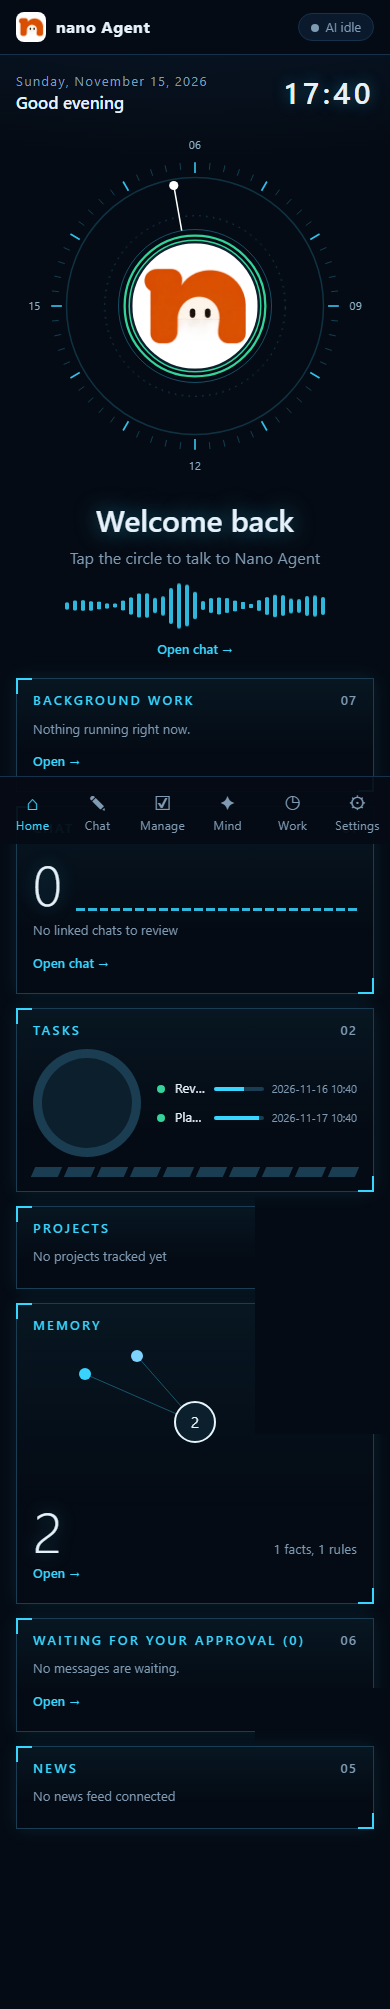
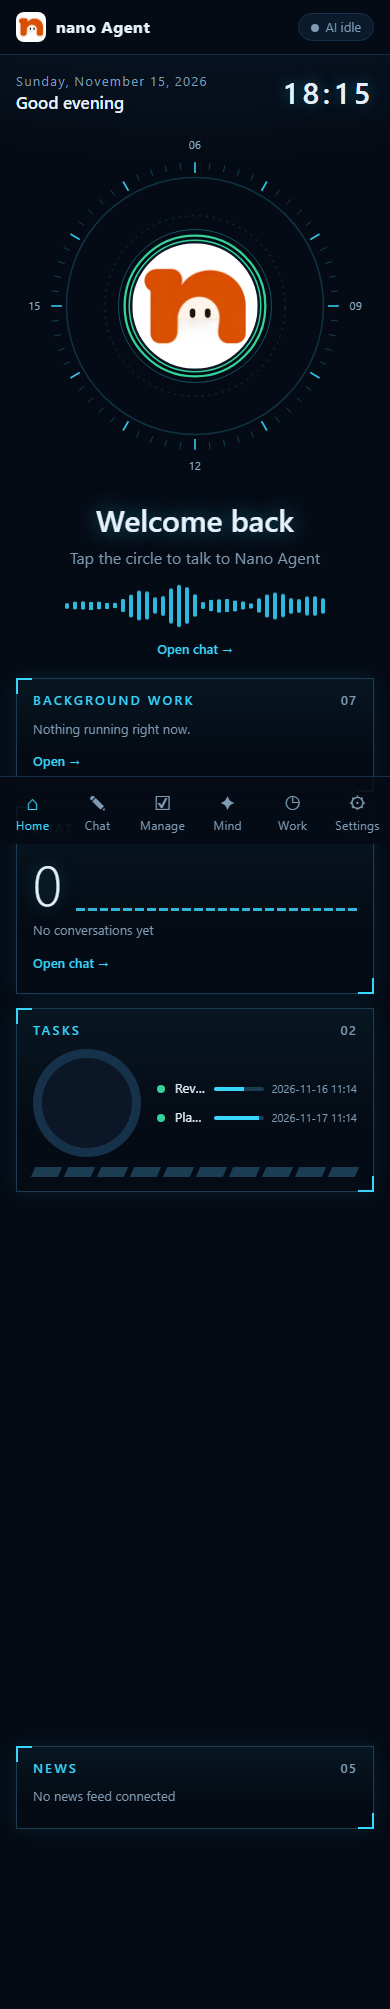
Add full console themes and dedicated chat workspace

diff --git a/src/nanoagent/gateway/static/console.js b/src/nanoagent/gateway/static/console.js
@@ -59,7 +59,10 @@ const HUBS = [["home", "⌂", "tab_home"], ["chat", "✎", "tab_chat"], ["manage
 function drawTabs() { $("#tabs").replaceChildren(...HUBS.map(([k, ic, lb]) => h("button", { class: tab === k ? "on" : "", onclick: () => go(k) }, h("span", { text: ic }), t(lb)))); }
 function go(k) { tab = k; drawTabs(); render(); }
 function render() { ({ home: vHome, chat: vChat, manage: vManage, mind: vMind, work: vWork, settings: vSettings })[tab](); }
-function applyUi(p) { const r = document.documentElement; if (p["ui.accent"]) r.dataset.accent = p["ui.accent"]; if (p["ui.density"]) r.dataset.density = p["ui.density"]; if (p["ui.text_size"]) r.dataset.size = p["ui.text_size"]; }
+function applyUi(p) { const r = document.documentElement; if (p["ui.accent"]) r.dataset.accent = p["ui.accent"]; if (p["ui.theme"]) r.dataset.theme = p["ui.theme"]; if (p["ui.density"]) r.dataset.density = p["ui.density"]; if (p["ui.text_size"]) r.dataset.size = p["ui.text_size"]; }
+function viewHeading(title, detail, number) {
+  return h("div", { class: "view-heading" }, h("div", null, h("small", { text: `NANO AGENT / ${String(number).padStart(2, "0")}` }), h("h1", { text: title }), h("p", { text: detail })));
+}
 async function pollPill() {
   try { const r = await api("/activity?count=1"); const n = r.running || 0; const p = $("#pill"); p.classList.toggle("busy", n > 0);
     $("#pilltxt").textContent = n > 0 ? t("pill_busy", { n }) : t("pill_idle"); } catch (e) { /* login screen */ }
@@ -108,11 +111,11 @@ function nanoDial(tasks = []) {
   const svg = sv("svg", { class: "jv-dial", viewBox: "-34 -34 468 468", "aria-hidden": "true" });
   for (let i = 0; i < 60; i++) {
     const big = i % 5 === 0, [x1, y1] = dialPoint(big ? 174 : 179, i * 6), [x2, y2] = dialPoint(188, i * 6);
-    svg.append(sv("line", { x1, y1, x2, y2, stroke: "#38d4ff", "stroke-opacity": big ? .9 : .35, "stroke-width": big ? 2.2 : 1 }));
+    svg.append(sv("line", { x1, y1, x2, y2, stroke: "var(--accent)", "stroke-opacity": big ? .9 : .35, "stroke-width": big ? 2.2 : 1 }));
   }
-  svg.append(sv("circle", { cx: 200, cy: 200, r: 168, fill: "none", stroke: "#38d4ff", "stroke-opacity": .2, "stroke-width": 2 }),
-    sv("circle", { class: "jv-spin", cx: 200, cy: 200, r: 118, fill: "none", stroke: "#38d4ff", "stroke-opacity": .4, "stroke-dasharray": "2 7" }),
-    sv("circle", { cx: 200, cy: 200, r: 100, fill: "none", stroke: "#38d4ff", "stroke-opacity": .45 }));
+  svg.append(sv("circle", { cx: 200, cy: 200, r: 168, fill: "none", stroke: "var(--accent)", "stroke-opacity": .2, "stroke-width": 2 }),
+    sv("circle", { class: "jv-spin", cx: 200, cy: 200, r: 118, fill: "none", stroke: "var(--accent)", "stroke-opacity": .4, "stroke-dasharray": "2 7" }),
+    sv("circle", { cx: 200, cy: 200, r: 100, fill: "none", stroke: "var(--accent)", "stroke-opacity": .45 }));
   for (const [label, deg] of [["06", 0], ["09", 90], ["12", 180], ["15", 270]]) {
     const [x, y] = dialPoint(210, deg), txt = sv("text", { x, y: y + 5, fill: "#8bb0c4", "font-size": 15, "text-anchor": "middle" });
     txt.textContent = label; svg.append(txt);
@@ -131,8 +134,8 @@ function nanoDial(tasks = []) {
     const [x, y] = dialPoint(150, (dueHour - 6) * 30);
     svg.append(sv("circle", { cx: x, cy: y, r: 9, fill: "#fbbf24" }));
   }
-  svg.append(sv("circle", { cx: 200, cy: 200, r: 92, fill: "none", stroke: "#34d399", "stroke-width": 3 }),
-    sv("circle", { cx: 200, cy: 200, r: 86, fill: "#0c1f2c", stroke: "#34d399", "stroke-width": 2 }));
+  svg.append(sv("circle", { cx: 200, cy: 200, r: 92, fill: "none", stroke: "var(--ok)", "stroke-width": 3 }),
+    sv("circle", { cx: 200, cy: 200, r: 86, fill: "var(--panel)", stroke: "var(--ok)", "stroke-width": 2 }));
   const clip = sv("clipPath", { id: "nano-dial-clip" }, sv("circle", { cx: 200, cy: 200, r: 82 }));
   svg.append(sv("defs", {}, clip), sv("image", { href: "/static/logo-icon.png", x: 118, y: 118, width: 164, height: 164, "clip-path": "url(#nano-dial-clip)", preserveAspectRatio: "xMidYMid meet" }));
   return svg;
@@ -147,8 +150,8 @@ function jvMemoryGraph(count) {
   const svg = sv("svg", { class: "jv-memory-graph", viewBox: "0 0 300 150", "aria-hidden": "true" });
   const points = [[40, 30], [92, 12], [150, 28], [232, 40], [262, 98], [200, 128], [110, 132], [34, 96], [200, 74]];
   points.slice(0, Math.min(count, points.length)).forEach(([x, y], i) => {
-    svg.append(sv("line", { x1: 150, y1: 78, x2: x, y2: y, stroke: "#38d4ff", "stroke-opacity": .35 }),
-      sv("circle", { cx: x, cy: y, r: 6, fill: ["#38d4ff", "#7dd3fc", "#fbbf24", "#34d399"][i % 4] }));
+    svg.append(sv("line", { x1: 150, y1: 78, x2: x, y2: y, stroke: "var(--accent)", "stroke-opacity": .35 }),
+      sv("circle", { cx: x, cy: y, r: 6, fill: ["var(--accent)", "var(--accent)", "var(--warn)", "var(--ok)"][i % 4] }));
   });
   const center = sv("text", { x: 150, y: 84, "text-anchor": "middle", fill: "#e6f5fc", "font-size": 15 }); center.textContent = String(count);
   svg.append(sv("circle", { cx: 150, cy: 78, r: 20, fill: "#0c1f2c", stroke: "#e6f5fc", "stroke-width": 2 }), center);
@@ -179,7 +182,7 @@ async function vHome() {
 }
 async function refreshHome() {
   if (tab !== "home") return;
-  const [st, dr, tk, ac] = await Promise.all([api("/state"), api("/drafts"), api("/tasks"), api("/activity")]);
+  const [st, dr, tk, ac, ht] = await Promise.all([api("/state"), api("/drafts"), api("/tasks"), api("/activity"), api("/history?session=console")]);
   if (!$("#home-chat-panel")) return;
   $("#orb").replaceChildren(nanoDial(tk.tasks));
   const factCount = (st.memory.fact || 0) + (st.memory.rule || 0);
@@ -188,9 +191,15 @@ async function refreshHome() {
   const totalTasks = tk.tasks.length;
   const rows = items => items.map(([title, detail, pct]) => h("div", { class: "jv-row" }, h("span", { class: "jv-dot" }), h("span", { class: "jv-name", text: title }),
     h("span", { class: "jv-rowbar" }, h("i", { style: `width:${pct}%` })), h("em", { text: detail })));
+  const recentChats = ht.messages.filter(m => m.role === "user"), chatBars = Array(24).fill(0), nowSeconds = Date.now() / 1000;
+  recentChats.forEach(m => { const hoursAgo = Math.floor((nowSeconds - m.ts) / 3600); if (hoursAgo >= 0 && hoursAgo < 24) chatBars[23 - hoursAgo]++; });
+  const maxChats = Math.max(1, ...chatBars);
   $("#home-chat-panel").replaceChildren(jvPanel("chat", t("tab_chat"), "01",
-    h("div", { class: "jv-split" }, h("span", { class: "jv-big", text: "0" }), h("div", { class: "jv-bars" }, ...Array.from({ length: 24 }, () => h("b", { style: "height:5%" })))),
-    jvEmpty("No linked chats to review"), jvGo(t("home_chat"), "chat")));
+    h("div", { class: "jv-split" }, h("span", { class: "jv-big", text: String(recentChats.length) }),
+      h("div", { class: "jv-bars", title: lang === "th" ? "ข้อความล่าสุด 24 ชั่วโมง" : "Messages in the last 24 hours" },
+        ...chatBars.map(n => h("b", { style: `height:${Math.max(5, n / maxChats * 100)}%` })))),
+    recentChats.length ? recentChats.slice(-3).reverse().map(m => h("div", { class: "jv-chat-row" }, h("span", { text: m.text.slice(0, 52) }), h("small", { text: when(m.ts) })))
+      : jvEmpty(lang === "th" ? "ยังไม่มีบทสนทนา" : "No conversations yet"), jvGo(t("home_chat"), "chat")));
   const completed = totalTasks - openTasks.length, pct = totalTasks ? completed / totalTasks : 0;
   $("#home-task-panel").replaceChildren(jvPanel("task", t("sub_tasks"), "02",
     h("div", { class: "jv-ringrow" },
@@ -219,26 +228,39 @@ function draftsPanel(list, after) {
 
 // ---------- chat ----------
 async function vChat() {
-  const v = clear(); const box = h("div", { id: "chatbox" }); const inp = h("textarea", { placeholder: t("chat_placeholder"), rows: 2 });
+  const v = clear(); const box = h("div", { id: "chatbox", class: "chat-messages", role: "log", "aria-live": "polite" });
+  const inp = h("textarea", { placeholder: t("chat_placeholder"), rows: 2, "aria-label": t("chat_placeholder") });
   const h1 = await api("/history?session=console");
+  if (!h1.messages.length) box.append(h("div", { class: "chat-empty" }, h("img", { src: "/static/logo-icon.png", alt: "" }),
+    h("h2", { text: lang === "th" ? "คุยกับ Nano Agent" : "Talk to Nano Agent" }),
+    h("p", { text: lang === "th" ? "ถาม วางแผน หรือให้ช่วยจัดการงานของคุณ" : "Ask a question, plan your day, or work through a task." })));
   h1.messages.forEach(m => box.append(h("div", { class: "msg " + m.role, text: m.text })));
   const send = async () => {
-    const text = inp.value.trim(); if (!text) return; inp.value = ""; box.append(h("div", { class: "msg user", text }));
+    const text = inp.value.trim(); if (!text) return; inp.value = ""; box.querySelector(".chat-empty")?.remove(); box.append(h("div", { class: "msg user", text }));
     const wait = h("div", { class: "msg note", text: t("chat_thinking") }); box.append(wait);
     try { const r = await ask(text, "console"); wait.remove(); box.append(h("div", { class: "msg assistant", text: r.text }));
       if (r.tools && r.tools.length) box.append(h("div", { class: "msg note", text: t("chat_used") + r.tools.map(x => x.name).join(", ") }));
       if (r.new_drafts && r.new_drafts.length) box.append(draftsPanel(r.new_drafts, () => go("chat")));
     } catch (e) { wait.remove(); }
-    window.scrollTo(0, document.body.scrollHeight);
+    box.scrollTop = box.scrollHeight;
   };
   inp.addEventListener("keydown", e => { if (e.key === "Enter" && !e.shiftKey) { e.preventDefault(); send(); } });
-  v.append(box, h("div", { class: "panel" }, inp, h("p", null, h("button", { class: "pri", onclick: send, text: t("send") }))));
+  v.append(viewHeading(t("tab_chat"), lang === "th" ? "พื้นที่คุยกับผู้ช่วยของคุณ" : "Your direct space with Nano Agent", 2),
+    h("section", { class: "chat-stage" },
+      h("div", { class: "chat-stage-head" }, h("div", { class: "chat-avatar" }, h("img", { src: "/static/logo-icon.png", alt: "" })),
+        h("div", null, h("strong", { text: "Nano Agent" }), h("small", { text: ME.model || "AI assistant" })), h("span", { class: "chat-online", text: "●" })),
+      box,
+      h("div", { class: "chat-composer" }, inp, h("div", { class: "chat-composer-bottom" },
+        h("small", { text: lang === "th" ? "Enter เพื่อส่ง · Shift+Enter ขึ้นบรรทัดใหม่" : "Enter to send · Shift+Enter for a new line" }),
+        h("button", { class: "pri", onclick: send, text: t("send") + " →" })))));
+  box.scrollTop = box.scrollHeight;
 }
 
 // ---------- manage ----------
 async function vManage() {
   const v = clear(); const cur = sub.manage || "tasks";
-  v.append(chips([["tasks", t("sub_tasks")], ["drafts", t("sub_drafts")]], cur, k => { sub.manage = k; vManage(); }));
+  v.append(viewHeading(t("tab_manage"), lang === "th" ? "งานและรายการรออนุมัติ" : "Tasks and approvals in one place", 3),
+    chips([["tasks", t("sub_tasks")], ["drafts", t("sub_drafts")]], cur, k => { sub.manage = k; vManage(); }));
   if (cur === "drafts") { const d = await api("/drafts"); v.append(d.drafts.length ? draftsPanel(d.drafts, vManage) : panel(t("drafts_none"))); return; }
   const d = await api("/tasks"); const title = h("input", { placeholder: t("task_title") }), due = h("input", { placeholder: t("task_due") });
   v.append(panel(t("task_add"), title, h("div", { style: "height:6px" }), due, h("p", null, h("button", { class: "pri", onclick: async () => { const r = await act("/tasks", { title: title.value, due: due.value }); if (r.ok) vManage(); }, text: t("add") }))));
@@ -252,7 +274,8 @@ async function vManage() {
 // ---------- mind: memory, skills, learning ----------
 async function vMind() {
   const v = clear(); const cur = sub.mind || "memory";
-  v.append(chips([["memory", t("sub_memory")], ["skills", t("sub_skills")], ["learning", t("sub_learning")], ["know", t("sub_know")]], cur, k => { sub.mind = k; vMind(); }));
+  v.append(viewHeading(t("tab_mind"), lang === "th" ? "ความจำ ทักษะ และการเรียนรู้" : "Memory, skills, and learning", 4),
+    chips([["memory", t("sub_memory")], ["skills", t("sub_skills")], ["learning", t("sub_learning")], ["know", t("sub_know")]], cur, k => { sub.mind = k; vMind(); }));
   ({ memory: mMemory, skills: mSkills, learning: mLearning, know: mKnow })[cur](v);
 }
 async function mMemory(v) {
@@ -309,7 +332,8 @@ async function mKnow(v) {
 // ---------- work: activity, automations, system ----------
 async function vWork() {
   const v = clear(); const cur = sub.work || "activity";
-  v.append(chips([["activity", t("sub_activity")], ["auto", t("sub_auto")], ["system", t("sub_system")]], cur, k => { sub.work = k; vWork(); }));
+  v.append(viewHeading(t("tab_work"), lang === "th" ? "กิจกรรม ระบบอัตโนมัติ และสถานะ" : "Activity, automations, and system status", 5),
+    chips([["activity", t("sub_activity")], ["auto", t("sub_auto")], ["system", t("sub_system")]], cur, k => { sub.work = k; vWork(); }));
   if (cur === "activity") { const a = await api("/activity"); const row = x => h("div", { class: "row" }, h("span", { class: "tag " + (x.status === "done" ? "ok" : x.status === "failed" ? "bad" : "warn"), text: x.status }), h("span", { class: "grow" }, h("b", { text: x.title }), x.steps.length ? h("div", { class: "dim", text: x.steps.slice(-3).map(s => s.text).join(" · ") }) : null), h("span", { class: "dim", text: Math.round(x.secs) + "s" }));
     v.append(panel(t("running_title"), a.running.length ? a.running.map(row) : h("p", { class: "dim", text: t("work_idle") })), panel(t("recent_title"), a.done.map(row))); }
   if (cur === "auto") { const a = await api("/automations"); const nm = h("input", { placeholder: t("auto_name") }), pr = h("textarea", { placeholder: t("auto_prompt") }), sc = h("input", { placeholder: '{"daily": "08:00"}' });
@@ -329,6 +353,20 @@ async function vWork() {
 async function vSettings() {
   const v = clear(); const name = h("input", { value: ME.owner_name || "" }), tz = h("input", { value: ME.timezone || "" });
   const lg = h("select", null, ["en", "th"].map(l => h("option", { value: l, selected: l === lang ? "" : null, text: l === "en" ? "English" : "ไทย" })));
+  const themes = [
+    ["spark", "Spark dashboard", lang === "th" ? "จอข้อมูลแบบ Personal Assistant" : "The Personal Assistant dashboard layout"],
+    ["black", "Black modern", lang === "th" ? "พื้นดำ ขอบคม สีส้ม Nano" : "Deep black surfaces and Nano orange accents"],
+    ["minimal", "Nano minimal", lang === "th" ? "เรียบ โปร่ง ใช้งานง่าย" : "Light, open, and simple to use"]
+  ];
+  v.append(viewHeading(t("tab_settings"), lang === "th" ? "ปรับหน้าตาและข้อมูลของคุณ" : "Make Nano Agent feel like yours", 6),
+    panel(lang === "th" ? "รูปแบบหน้าจอ" : "Appearance",
+      h("p", { class: "dim", text: lang === "th" ? "เลือกหน้าตาที่ต้องการ เปลี่ยนได้ตลอด" : "Choose a look. You can change it any time." }),
+      h("div", { class: "theme-options" }, themes.map(([key, title, detail]) => h("button", {
+        class: "theme-option theme-option-" + key + (document.documentElement.dataset.theme === key ? " selected" : ""),
+        "aria-pressed": document.documentElement.dataset.theme === key ? "true" : "false",
+        onclick: async () => { const r = await post("/learning/pref", { setting: "ui.theme", value: key });
+          if (r.ok) { ME.prefs["ui.theme"] = key; applyUi(ME.prefs); vSettings(); } else toast(r.error || "Could not save appearance"); }
+      }, h("span", { class: "theme-preview" }, h("i"), h("i"), h("i")), h("strong", { text: title }), h("small", { text: detail }))))));
   v.append(panel(t("settings_title"), field(t("set_name"), name), field(t("set_tz"), tz), field(t("set_lang"), lg),
     h("p", null, h("button", { class: "pri", onclick: async () => { const r = await act("/settings", { owner_name: name.value, timezone: tz.value, language: lg.value }); if (r.ok) { toast(t("saved")); boot(); } }, text: t("save") }))));
   v.append(panel(t("about_title"), h("p", { class: "dim", text: `nano Agent ${ME.version} · ${t("model_label")}: ${ME.model || "-"}` }), h("p", null, h("button", { onclick: async () => { await post("/logout"); showLogin(); }, text: t("logout") }))));

diff --git a/src/nanoagent/gateway/static/dashboard.css b/src/nanoagent/gateway/static/dashboard.css
@@ -9,8 +9,9 @@ main:has(.jv-grid){max-width:none;width:auto;padding:24px 28px 48px}
 .jv-note{color:var(--dim);font-size:13px;margin:8px 0}.jv-link{background:none;border:0;border-radius:0;padding:6px 0;color:var(--accent);font-size:13px;font-weight:600}
 .jv-split{display:flex;align-items:flex-end;gap:14px;margin-bottom:10px}.jv-big{font-size:56px;line-height:1;font-weight:300;font-variant-numeric:tabular-nums;color:var(--txt);text-shadow:0 0 18px #38d4ff66}
 .jv-bars{flex:1;display:flex;align-items:flex-end;gap:3px;height:64px}.jv-bars b{flex:1;background:var(--accent);min-height:3px;opacity:.85}
+.jv-chat-row{display:flex;justify-content:space-between;gap:10px;padding:6px 0;border-top:1px solid var(--line);font-size:.8rem}.jv-chat-row span{overflow:hidden;text-overflow:ellipsis;white-space:nowrap}.jv-chat-row small{color:var(--dim);white-space:nowrap}
 .jv-row{display:grid;grid-template-columns:10px minmax(0,1fr) 28% auto;align-items:center;gap:8px;padding:5px 0;font-size:13px}.jv-name{overflow:hidden;text-overflow:ellipsis;white-space:nowrap}.jv-row em{font-style:normal;font-size:11px;color:var(--dim);min-width:34px;text-align:right}.jv-dot{width:8px;height:8px;border-radius:50%;background:var(--ok);display:inline-block;flex:none}.jv-dot.running{box-shadow:0 0 10px var(--ok);animation:pulse 1.2s infinite}.jv-rowbar{height:4px;background:#1a3d52;border-radius:2px;overflow:hidden}.jv-rowbar i{display:block;height:100%;background:var(--accent)}
-.jv-ringrow{display:flex;gap:16px;align-items:center}.jv-ring{width:108px;height:108px;flex:none;border-radius:50%;background:conic-gradient(var(--ok) var(--done),#1a3d52 0);display:grid;place-items:center;position:relative}.jv-ring:before{content:"";position:absolute;inset:9px;border-radius:50%;background:#0c1f2c}.jv-ring span{z-index:1;font-size:24px;font-weight:300}.jv-task-rows{flex:1;min-width:0}.jv-task-rows .jv-row{grid-template-columns:10px minmax(0,1fr) 25% auto}
+.jv-ringrow{display:flex;gap:16px;align-items:center}.jv-ring{width:108px;height:108px;flex:none;border-radius:50%;background:conic-gradient(var(--ok) var(--done),var(--line) 0);display:grid;place-items:center;position:relative}.jv-ring:before{content:"";position:absolute;inset:9px;border-radius:50%;background:var(--panel)}.jv-ring span{z-index:1;font-size:24px;font-weight:300}.jv-task-rows{flex:1;min-width:0}.jv-task-rows .jv-row{grid-template-columns:10px minmax(0,1fr) 25% auto}
 .jv-segments{display:flex;gap:6px;margin-top:10px}.jv-segments i{flex:1;height:10px;transform:skewX(-24deg);background:#1a3d52}.jv-segments i.on{background:var(--ok)}
 .jv-core{display:flex;align-items:center;justify-content:center}.jv-orb{display:block;border:0;background:none;padding:0;border-radius:50%;width:100%;max-width:520px}.jv-dial{width:100%;height:auto;display:block}.jv-spin{transform-box:fill-box;transform-origin:center}.jv-orb[data-state=listening] .jv-dial{filter:drop-shadow(0 0 16px #34d39988)}.jv-orb[data-state=thinking] .jv-dial{filter:drop-shadow(0 0 18px #fbbf2488)}.jv-orb[data-state=speaking] .jv-dial{filter:drop-shadow(0 0 18px #60a5fa88)}
 .jv-welcome{text-align:center;align-self:center}.jv-welcome h2{display:block;font-size:30px;font-weight:600;margin:0 0 4px;text-shadow:0 0 22px #38d4ff88}.jv-welcome p{margin:0;color:var(--dim)}.jv-wave{display:flex;align-items:center;justify-content:center;gap:4px;height:56px;margin-top:8px}.jv-wave i{width:4px;border-radius:2px;background:var(--accent);height:var(--h);opacity:.85}.jv-heard,.jv-said{overflow-wrap:anywhere}.jv-heard{color:var(--dim);font-size:.85rem}.jv-said{font-size:.9rem;max-width:38ch;margin:auto}
@@ -19,3 +20,58 @@ main:has(.jv-grid){max-width:none;width:auto;padding:24px 28px 48px}
 @media(max-width:1000px){main:has(.jv-grid){padding:16px 16px 96px}.jv-grid{grid-template-columns:1fr 1fr;grid-template-areas:"core core" "wel wel" "bg bg" "chat task" "proj mem" "appr news"}}
 @media(max-width:620px){.jv-grid{grid-template-columns:minmax(0,1fr);grid-template-areas:"core" "wel" "bg" "chat" "task" "proj" "mem" "appr" "news"}.jv-head strong{font-size:17px}.jv-clock{font-size:30px}.jv-orb{max-width:370px}}
 @media(prefers-reduced-motion:no-preference){.jv-spin{animation:jv-spin 60s linear infinite}@keyframes jv-spin{to{transform:rotate(360deg)}}.jv-wave i{animation:jv-wave 1.5s ease-in-out infinite;animation-delay:calc(var(--i)*-.09s)}@keyframes jv-wave{50%{transform:scaleY(.3)}}}
+
+/* Shared navigation and content language across every tab. */
+main:not(:has(.jv-grid)){max-width:1120px;padding:26px 28px 70px}
+.view-heading{display:flex;align-items:flex-end;justify-content:space-between;margin:3px 0 22px;padding-bottom:16px;border-bottom:1px solid var(--line)}
+.view-heading small{display:block;color:var(--accent);font-size:.7rem;font-weight:700;letter-spacing:.2em}.view-heading h1{font-size:clamp(1.75rem,3vw,2.5rem);line-height:1.1;margin:7px 0}.view-heading p{margin:0;color:var(--dim);font-size:.9rem}
+.panel{border-radius:3px;background:linear-gradient(180deg,color-mix(in srgb,var(--accent) 6%,var(--panel)),var(--panel) 65%);box-shadow:0 0 18px color-mix(in srgb,var(--accent) 10%,transparent);padding:20px;margin-bottom:16px}
+.panel h3{font-size:.82rem;text-transform:uppercase;letter-spacing:.14em;margin-bottom:15px}.chips{margin:0 0 20px}.chip{border-radius:3px}.row{padding:12px 0}.row .grow{overflow-wrap:anywhere}
+button:focus-visible,.btn:focus-visible,input:focus-visible,textarea:focus-visible,select:focus-visible{outline:2px solid var(--accent);outline-offset:2px}
+@media(min-width:1001px){main:not(:has(.jv-grid)){margin-left:208px;margin-right:auto;max-width:1120px}nav{gap:2px}nav button{justify-content:flex-start}}
+
+/* A dedicated chat tab with a contained transcript and composer. */
+main:has(.chat-stage){max-width:1110px}
+.chat-stage{border:1px solid var(--line);background:var(--panel);min-height:min(720px,calc(100vh - 200px));display:flex;flex-direction:column;position:relative;box-shadow:0 0 18px color-mix(in srgb,var(--accent) 10%,transparent)}
+.chat-stage:before,.chat-stage:after{content:"";position:absolute;width:14px;height:14px;pointer-events:none}.chat-stage:before{top:-1px;left:-1px;border-top:2px solid var(--accent);border-left:2px solid var(--accent)}.chat-stage:after{bottom:-1px;right:-1px;border-bottom:2px solid var(--accent);border-right:2px solid var(--accent)}
+.chat-stage-head{display:flex;align-items:center;gap:12px;border-bottom:1px solid var(--line);padding:13px 18px}.chat-stage-head strong,.chat-stage-head small{display:block}.chat-stage-head small{color:var(--dim);font-size:.75rem}.chat-avatar{width:40px;height:40px;border-radius:50%;overflow:hidden;border:1px solid var(--accent);background:#fff}.chat-avatar img{width:100%;height:100%;object-fit:cover}.chat-online{margin-left:auto;color:var(--ok);font-size:1.1rem}
+.chat-messages{height:min(55vh,520px);min-height:260px;overflow-y:auto;padding:22px 24px;display:flex;flex-direction:column;gap:12px;scrollbar-color:var(--line) transparent}.chat-messages .msg{margin:0;max-width:min(80%,680px);padding:12px 15px;line-height:1.55}.chat-messages .msg.user{align-self:flex-end;background:color-mix(in srgb,var(--accent) 18%,var(--panel));border:1px solid color-mix(in srgb,var(--accent) 35%,var(--line))}.chat-messages .msg.assistant{align-self:flex-start;background:color-mix(in srgb,var(--panel) 80%,var(--bg));border:1px solid var(--line)}.chat-messages .msg.note{align-self:center;text-align:center}
+.chat-empty{margin:auto;text-align:center;max-width:420px}.chat-empty img{width:74px;height:74px;border-radius:18px;box-shadow:0 0 28px color-mix(in srgb,var(--accent) 24%,transparent)}.chat-empty h2{font-size:1.65rem;margin:18px 0 6px}.chat-empty p{color:var(--dim);margin:0}
+.chat-composer{border-top:1px solid var(--line);padding:15px 18px 16px;margin-top:auto}.chat-composer textarea{min-height:72px;resize:vertical}.chat-composer-bottom{display:flex;justify-content:space-between;align-items:center;gap:12px;margin-top:9px}.chat-composer-bottom small{color:var(--dim)}
+
+/* Saved appearance choices. */
+.theme-options{display:grid;grid-template-columns:repeat(3,minmax(0,1fr));gap:12px;margin-top:15px}.theme-option{display:flex;flex-direction:column;align-items:stretch;text-align:left;min-height:165px;padding:12px;border:1px solid var(--line);background:var(--bg);border-radius:5px}.theme-option.selected{border-color:var(--accent);box-shadow:0 0 0 1px var(--accent)}.theme-option strong{margin:10px 0 3px;font-size:.94rem}.theme-option small{font-size:.76rem;color:var(--dim)}
+.theme-preview{height:68px;display:grid;grid-template-columns:1fr 1.5fr 1fr;gap:6px;padding:9px;border-radius:3px;background:#06121b;border:1px solid #1a3d52}.theme-preview i{display:block;border:1px solid #247497;background:#0b2736}.theme-option-black .theme-preview{background:#050505;border-color:#303030}.theme-option-black .theme-preview i{border-color:#dc682c;background:#151515}.theme-option-minimal .theme-preview{background:#fafaf7;border-color:#dcded8}.theme-option-minimal .theme-preview i{border-color:#dcded8;background:#fff}.theme-option-minimal .theme-preview i:nth-child(2){border-top:3px solid #eb681f}
+
+/* Black modern keeps the dashboard geometry with restrained Nano orange. */
+html[data-theme=black]{--bg:#050505;--panel:#101010;--line:#303030;--txt:#f2f0ed;--dim:#a4a3a1;--accent:#ff7a2a;--ok:#70d8aa}
+html[data-theme=black] body{background:radial-gradient(900px 500px at 50% -10%,#21150d,#050505 65%)}
+html[data-theme=black] header,html[data-theme=black] nav{background:#0d0d0d;border-color:var(--line)}
+html[data-theme=black] .jv-panel,html[data-theme=black] .panel{background:linear-gradient(180deg,#ff7a2a0b,#101010 70%);border-color:var(--line);box-shadow:0 0 14px #ff7a2a14}
+html[data-theme=black] .jv-panel h3,html[data-theme=black] .jv-head small,html[data-theme=black] .view-heading small{color:var(--accent)}
+html[data-theme=black] .jv-ring:before{background:#101010}html[data-theme=black] .jv-rowbar,html[data-theme=black] .jv-segments i{background:#303030}html[data-theme=black] .jv-segments i.on{background:var(--ok)}
+html[data-theme=black] nav button.on{background:#23170f;color:var(--accent)}
+html[data-theme=black] input,html[data-theme=black] textarea,html[data-theme=black] select{background:#080808;border-color:var(--line)}
+
+/* Nano minimal uses open space and the orange from the logo. */
+html[data-theme=minimal]{--bg:#f8f8f5;--panel:#fff;--line:#deded8;--txt:#232323;--dim:#686a6a;--accent:#e95e16;--ok:#248865}
+html[data-theme=minimal] body{background:#f8f8f5}
+html[data-theme=minimal] header,html[data-theme=minimal] nav{background:#fff;border-color:var(--line)}
+html[data-theme=minimal] .jv-panel,html[data-theme=minimal] .panel{background:#fff;border-color:var(--line);box-shadow:none}
+html[data-theme=minimal] .jv-panel:before,html[data-theme=minimal] .jv-panel:after,html[data-theme=minimal] .panel:before,html[data-theme=minimal] .panel:after{border-color:var(--accent);opacity:.55}
+html[data-theme=minimal] .jv-head small,html[data-theme=minimal] .jv-panel h3,html[data-theme=minimal] .view-heading small{color:var(--accent)}
+html[data-theme=minimal] .jv-big,html[data-theme=minimal] .jv-clock{color:var(--txt);text-shadow:none}html[data-theme=minimal] .jv-welcome h2{text-shadow:none}
+html[data-theme=minimal] .jv-ring:before{background:#fff}html[data-theme=minimal] .jv-rowbar,html[data-theme=minimal] .jv-segments i{background:#e9e9e3}html[data-theme=minimal] .jv-segments i.on{background:var(--ok)}
+html[data-theme=minimal] nav button.on{background:#fff3ea;color:var(--accent)}
+html[data-theme=minimal] .pill,html[data-theme=minimal] .chip,html[data-theme=minimal] button:not(.jv-orb):not(.jv-link){background:#fff;color:var(--txt);border-color:var(--line)}
+html[data-theme=minimal] button.pri,html[data-theme=minimal] .chip.on{background:var(--accent)!important;color:#fff!important;border-color:var(--accent)!important}
+html[data-theme=minimal] input,html[data-theme=minimal] textarea,html[data-theme=minimal] select{background:#fff;color:var(--txt);border-color:var(--line)}
+html[data-theme=minimal] .chat-stage{background:#fff}html[data-theme=minimal] .chat-messages .msg.assistant{background:#f7f7f4}html[data-theme=minimal] .chat-messages .msg.user{background:#fff1e7}
+html[data-theme=minimal] .jv-grid{gap:16px}html[data-theme=minimal] .jv-panel{border-radius:12px;padding:18px;box-shadow:0 2px 12px #15151508}
+html[data-theme=minimal] .jv-panel:before,html[data-theme=minimal] .jv-panel:after{display:none}
+html[data-theme=minimal] .jv-panel h3{letter-spacing:.09em}html[data-theme=minimal] .jv-big{font-size:42px}html[data-theme=minimal] .jv-bars,html[data-theme=minimal] .jv-segments,html[data-theme=minimal] .jv-wave{display:none}
+html[data-theme=minimal] .jv-dial{opacity:.9;max-width:280px}html[data-theme=minimal] .jv-dial line{opacity:.42}html[data-theme=minimal] .jv-welcome{text-align:left}html[data-theme=minimal] .jv-welcome h2{font-size:32px}
+html[data-theme=minimal] .jv-memory-graph{height:105px}html[data-theme=minimal] .jv-ring{width:76px;height:76px}html[data-theme=minimal] .jv-ring span{font-size:18px}
+@media(min-width:1100px){html[data-theme=minimal] .jv-grid{grid-template-columns:repeat(3,minmax(0,1fr));grid-template-areas:"core wel wel" "task task appr" "chat proj mem" "news bg bg"}html[data-theme=minimal] .jv-core{justify-content:flex-start}html[data-theme=minimal] .jv-welcome{align-self:center}}
+@media(max-width:620px){html[data-theme=minimal] .jv-welcome{text-align:center}html[data-theme=minimal] .jv-grid{grid-template-columns:1fr;grid-template-areas:"core" "wel" "bg" "chat" "task" "proj" "mem" "appr" "news"}}
+@media(max-width:700px){main:not(:has(.jv-grid)){padding:16px 16px 100px}.theme-options{grid-template-columns:1fr}.theme-option{min-height:0}.chat-messages{height:calc(100dvh - 335px);min-height:260px;padding:15px}.chat-composer-bottom small{font-size:.7rem}.chat-stage{min-height:0}.view-heading{margin-bottom:16px}}

diff --git a/scripts/preview_console.py b/scripts/preview_console.py
@@ -90,6 +90,29 @@ def main() -> int:
                     page.screenshot(path=str(args.out / "console-home.png"), full_page=True)
                     page.set_viewport_size({"width": 390, "height": 844})
                     page.screenshot(path=str(args.out / "console-mobile.png"), full_page=True)
+                    page.set_viewport_size({"width": 1440, "height": 1000})
+                    page.locator("nav button").nth(1).click()
+                    page.locator(".chat-stage").wait_for(timeout=10000)
+                    page.screenshot(path=str(args.out / "console-chat.png"), full_page=True)
+                    page.locator(".chat-composer textarea").fill("Hello, Nano Agent")
+                    page.locator(".chat-composer button").click()
+                    page.locator(".chat-messages .msg.assistant").last.wait_for(timeout=15000)
+                    page.screenshot(path=str(args.out / "console-chat-active.png"), full_page=True)
+                    page.locator("nav button").nth(5).click()
+                    page.locator(".theme-options").wait_for(timeout=10000)
+                    page.screenshot(path=str(args.out / "console-settings.png"), full_page=True)
+                    page.locator(".theme-option-black").click()
+                    page.locator("html[data-theme='black']").wait_for(timeout=10000)
+                    page.reload(wait_until="domcontentloaded")
+                    page.locator("html[data-theme='black']").wait_for(timeout=10000)
+                    page.locator(".jv-panel").first.wait_for(timeout=10000)
+                    page.screenshot(path=str(args.out / "console-black.png"), full_page=True)
+                    page.locator("nav button").nth(5).click()
+                    page.locator(".theme-option-minimal").click()
+                    page.locator("html[data-theme='minimal']").wait_for(timeout=10000)
+                    page.locator("nav button").first.click()
+                    page.locator(".jv-panel").first.wait_for(timeout=10000)
+                    page.screenshot(path=str(args.out / "console-minimal.png"), full_page=True)
                     browser.close()
             if args.open:
                 webbrowser.open(url)

diff --git a/src/nanoagent/learning.py b/src/nanoagent/learning.py
@@ -34,6 +34,7 @@ SCHEMA: dict[str, tuple[str, object]] = {
     "brief.time": ("time", None),
     "brief.days": ("days", None),
     "ui.accent": ("enum", ACCENTS),
+    "ui.theme": ("enum", ("spark", "black", "minimal")),
     "ui.density": ("enum", ("compact", "normal", "roomy")),
     "ui.text_size": ("enum", ("s", "m", "l", "xl")),
     "ui.labels": ("enum", ("short", "friendly")),
@@ -41,7 +42,7 @@ SCHEMA: dict[str, tuple[str, object]] = {
 }
 DEFAULTS = {"chat.length": "normal", "chat.tone": "friendly", "chat.language": "auto", "chat.emoji": "none",
             "brief.sections": ["tasks", "reminders", "drafts"], "brief.length": "short", "brief.time": "07:30",
-            "brief.days": list(WEEKDAYS), "ui.accent": "cyan", "ui.density": "normal", "ui.text_size": "m",
+            "brief.days": list(WEEKDAYS), "ui.accent": "cyan", "ui.theme": "spark", "ui.density": "normal", "ui.text_size": "m",
             "ui.labels": "friendly", "ui.panels": list(PANELS)}
 AI_FORBIDDEN_SCOPES = ("ui",)   # the weekly review never restyles the console
 

diff --git a/tests/test_gateway.py b/tests/test_gateway.py
@@ -179,6 +179,9 @@ def test_skills_learning_automation_and_settings_routes(owner):
     assert owner.post("/api/learning/pref", json={"setting": "ui.accent", "value": "violet"}).json()["ok"]
     assert owner.get("/api/me").json()["prefs"]["ui.accent"] == "violet"
     assert owner.post("/api/learning/pref", json={"setting": "ui.accent", "value": "evil"}).json()["ok"] is False
+    assert owner.post("/api/learning/pref", json={"setting": "ui.theme", "value": "minimal"}).json()["ok"]
+    assert owner.get("/api/me").json()["prefs"]["ui.theme"] == "minimal"
+    assert owner.post("/api/learning/pref", json={"setting": "ui.theme", "value": "unknown"}).json()["ok"] is False
     assert owner.post("/api/automations", json={"name": "n", "prompt": "p", "schedule": {"daily": "08:00"}}).json()["ok"]
     assert owner.post("/api/settings", json={"language": "th", "owner_name": "Sam", "timezone": "Asia/Bangkok"}).json()["ok"]
     assert owner.post("/api/settings", json={"timezone": "Nowhere/City"}).status_code == 400

diff --git a/src/nanoagent/gateway/console.py b/src/nanoagent/gateway/console.py
@@ -98,7 +98,7 @@ main:has(.home-grid){max-width:1550px;padding:22px clamp(18px,2.6vw,38px)}
 
 
 def page() -> str:
-    return f"""<!doctype html><html lang="en" data-accent="cyan" data-density="normal" data-size="m"><head><meta charset="utf-8">
+    return f"""<!doctype html><html lang="en" data-theme="spark" data-accent="cyan" data-density="normal" data-size="m"><head><meta charset="utf-8">
 <meta name="viewport" content="width=device-width,initial-scale=1,viewport-fit=cover"><meta name="robots" content="noindex">
 <title>nano Agent</title><link rel="icon" href="/static/favicon.png"><style>{CSS}</style><link rel="stylesheet" href="/static/dashboard.css?v={__version__}"></head><body>
 <header><img src="/static/logo-icon.png" alt=""><b>nano Agent</b><span class="sp"></span><span id="pill" class="pill"><i></i><span id="pilltxt"></span></span></header>
